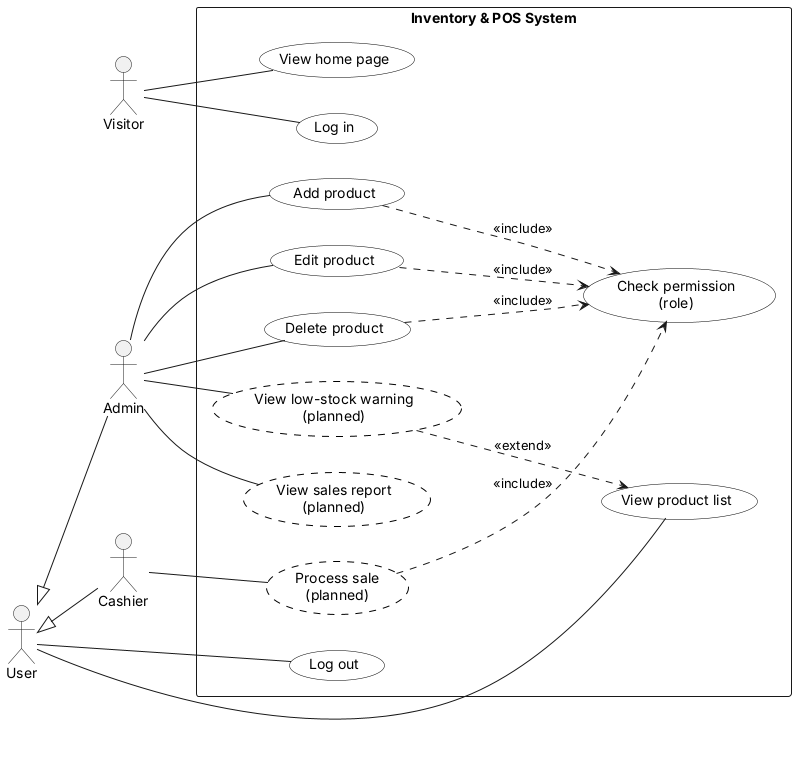
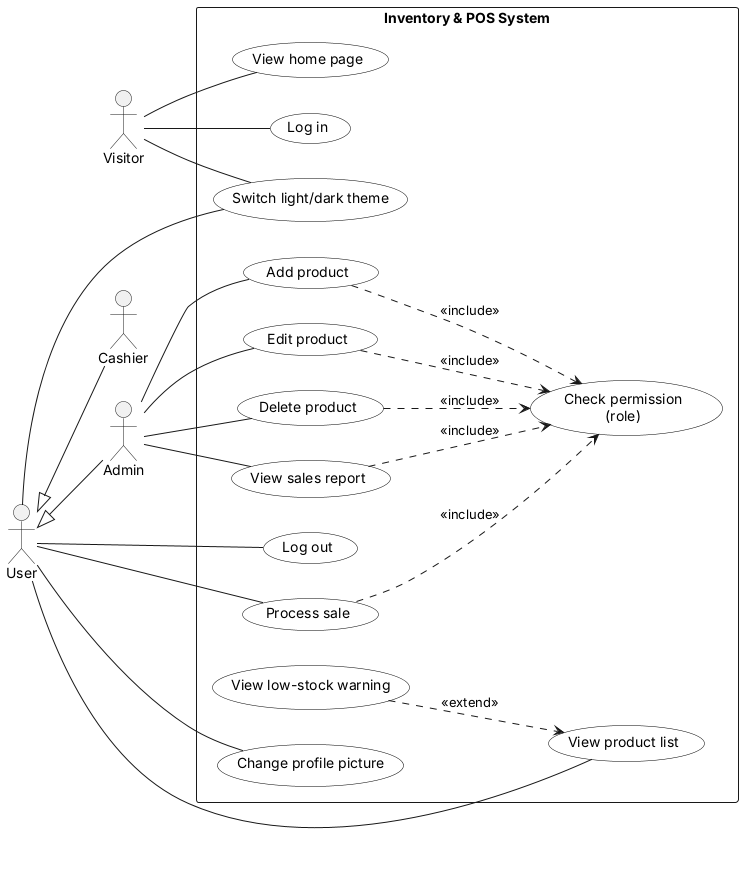
Docs: v0.12.0 profile picture and v0.13.0 modern theme
Stories F10-F11, test cases TC-11.x and TC-12.x (107 cases), DEF-25 and
DEF-26, use cases UC-11 and UC-12, updated use case diagram, actors table
and known limitations; removed a leftover duplicate UC-10 fragment.

Claude-Session: https://claude.ai/code/session_01AnRZgfVLrJe4aroni2zZdi

diff --git a/project_documentation_draft.md b/project_documentation_draft.md
@@ -1,7 +1,7 @@
 # Inventory & POS System — Project Documentation Draft
 
 > **Living document.** Add to it after every iteration (version tag). Don't wait until the end.
-> This draft covers the system up to **v0.11.2** (2026-10-09). Versions v0.8.2–v0.11.2 were implemented and tested by Claude on request
+> This draft covers the system up to **v0.13.0** (2026-10-09). Versions v0.8.2–v0.13.0 were implemented and tested by Claude on request
 > (time constraint: finals), following the same branch → pull request → merge → tag workflow and the stabilization rule.
 > Rebuilt on 2026-10-03 from the Git history and the source code, and tested against v0.7.0.
 >
@@ -83,6 +83,8 @@ Specification, development and validation are *interleaved* (they overlap) inste
 | v0.10.1–v0.10.2 | Stabilization patches: renamed products, keep sold products | Yes |
 | v0.11.0 | Demo data seed script | Yes: realistic shop for the presentation |
 | v0.11.1–v0.11.2 | Stabilization patches: receipt order, ₱ thousands separators | Yes |
+| v0.12.0 | Profile picture: round avatar with initials, upload/change/remove; automatic database upgrade | Yes |
+| v0.13.0 | Modern theme: left sidebar, light/dark switch, dashboard home | Yes: same features, new look |
 | v1.0.0 → | Presentation release (planned) | — |
 
 **Why incremental, and not the other two?**
@@ -140,6 +142,9 @@ The tag message summarizes what the increment added.
 | v0.11.0 | 2026-10-09 | `9c0bbac` | Demo data: seed script with shop products and a week of sales *(pull request #15)* |
 | v0.11.1 | 2026-10-09 | `e02353c` | Demo data: receipt numbers follow the clock *(pull request #16)* |
 | v0.11.2 | 2026-10-09 | `16c6c7a` | Money shown with thousands separators (₱6,904.50) *(pull request #17)* |
+| — | 2026-10-09 | — | Documentation update for v0.8.2–v0.11.2 *(pull request #18, no tag)* |
+| v0.12.0 | 2026-10-09 | `5f3648e` | Profile pictures: round avatar (initials until a picture is uploaded), avatar menu, automatic database upgrade *(pull request #19)* |
+| v0.13.0 | 2026-10-09 | `ea368ff` | Modern theme: left sidebar with icons, light "Clean counter" / dark "Night shift" switch, dashboard home, card layout *(pull request #20)* |
 
 *From v0.8.2 the Commit column shows the commit with the change; the tag sits on the GitHub merge commit of that pull request.
 Pull request numbers assume the versions were published in order in one session.*
@@ -160,8 +165,8 @@ An **actor** is anyone (or anything) outside the system that interacts with it.
 |---|---|---|
 | **Visitor** | Anyone who opens the website but has not logged in | See the home page; go to the login page |
 | **User** *(general)* | Any logged-in person. This is a "parent" actor: Admin and Cashier are both kinds of User | Log in, log out, view the product list |
-| **Admin** | Store owner or manager. *Is a* User | Everything a User can do, **plus** add, edit and delete products |
-| **Cashier** | Counter staff. *Is a* User | Everything a User can do (view only). Will process sales in v0.8.0 |
+| **Admin** | Store owner or manager. *Is a* User | Everything a User can do, **plus** add, edit and delete products and view the sales report |
+| **Cashier** | Counter staff. *Is a* User | Everything a User can do: view products, process sales, change their picture (cannot change products or see the sales report) |
 
 > **Why "User" as a parent?** Admin and Cashier share some abilities (log in, log out, view products).
 > Instead of drawing the same lines twice, UML lets you draw them once on a general *User* actor and
@@ -246,6 +251,23 @@ a link to its receipt. To compare the week, she picks From = last Friday and To 
 She renamed "Cola" to "Cola 1.5L" on Wednesday; the report still counts it as one product *(v0.10.1)*. When she
 tries to delete a product that has been sold, the system refuses and suggests setting its quantity to 0, so old
 reports and receipts stay correct *(v0.10.2)*.
+
+### Story F10 — Profile picture *(v0.12.0)*
+Juan, a cashier, logs in for the first time. At the bottom of the sidebar he sees a green circle with his initials,
+**JU**, next to his name and role. He clicks it; a small menu says *Signed in as Cashier* and offers **Change picture**
+and **Log out**. He chooses Change picture, picks a JPG photo from his phone gallery (under 2 MB) and clicks
+**Upload picture**. The circle now shows his photo, cropped to a circle, on every page. A week later he uploads a
+new photo; the old file is deleted from the server. When he tries a GIF, the system says it only accepts PNG,
+JPG or WebP. When he uploads a 5 MB photo, it says *"That picture is too big. The limit is 2 MB."* and nothing
+breaks. Clicking **Remove picture** brings back his initials.
+
+### Story F11 — Modern theme with light and dark mode *(v0.13.0)*
+Maria opens the system in the morning. A sidebar on the left lists **Home, Products, New Sale** and, because she
+is the admin, **Sales Report**; the page she is on is highlighted. Home shows today's numbers (products, low
+stock, sales today, revenue today) and shortcut tiles. In the evening the store lights are dim, so she clicks
+**Dark mode** at the bottom of the sidebar: the system turns charcoal with amber highlights. Tomorrow it opens in
+dark mode again because her browser remembers the choice. When she prints a receipt from dark mode, the
+printout is still black on white. On her phone, the sidebar hides behind a ☰ menu button at the top.
 
 ---
 
@@ -465,12 +487,42 @@ reports and receipts stay correct *(v0.10.2)*.
 | TC-10.3 | Sales report for the demo week | Receipt numbers increase with time | **v0.11.0:** #25 at 9:27 AM after #23 at 6:13 PM · **v0.11.1:** in time order | ❌→✅ DEF-22 |
 | TC-10.4 | Any amount ≥ ₱1,000 (report, receipt, products, change preview, messages) | Thousands separator | **v0.11.1:** ₱6904.50 · **v0.11.2:** ₱6,904.50 | ❌→✅ DEF-23 |
 
+### F10 — Profile picture *(v0.12.0)*
+
+| ID | Precondition | Steps / input | Expected result | Actual result | Pass? |
+|---|---|---|---|---|---|
+| TC-11.1 | User without a picture | Open any page | Circle with initials (admin → AD) and the avatar menu | As expected | ✅ |
+| TC-11.2 | Logged in | Upload a PNG | Circle shows the picture; file saved under a random name | `user1_<random>.png` saved and shown | ✅ |
+| TC-11.3 | Picture already set | Upload a JPG | New picture shown; old file deleted | As expected | ✅ |
+| TC-11.4 | Picture set | Click Remove picture | Initials again; file deleted | As expected | ✅ |
+| TC-11.5 | Logged in | Upload a text file renamed to `.png` | Refused: "isn't a PNG, JPG or WebP picture" | Refused (the file's first bytes are checked, not its name) | ✅ |
+| TC-11.6 | Logged in | Upload a GIF | Refused with the same message | Refused | ✅ |
+| TC-11.7 | Logged in | Upload a 3 MB file | "That picture is too big. The limit is 2 MB."; no crash | As expected | ✅ |
+| TC-11.8 | Database from v0.11.2 (no `avatar` column) | Start the app | Column added automatically; old sales still work | Added by `upgrade_database()`; cash sale OK | ✅ |
+| TC-11.9 | Picture file deleted from the server by hand | Open any page | Initials instead of a broken image | As expected | ✅ |
+| TC-11.10 | Logged in | Open `/profile/remove` in the address bar (GET) | 405, picture kept | 405 | ✅ |
+| TC-11.11 | Visitor | Open `/profile` | Login page | As expected | ✅ |
+
+### F11 — Modern theme *(v0.13.0)*
+
+| ID | Precondition | Steps / input | Expected result | Actual result | Pass? |
+|---|---|---|---|---|---|
+| TC-12.1 | Admin | Open Products, then Add Product | Sidebar highlights **Products** on both pages | As expected | ✅ |
+| TC-12.2 | Cashier | Look at the sidebar | No Sales Report link | As expected | ✅ |
+| TC-12.3 | Any page | Click **Dark mode**, then reload | Dark theme with amber accent; still dark after reload | As expected | ✅ |
+| TC-12.4 | Dark mode | Print a receipt | Printout in light colours, no sidebar; dark again after printing | As expected | ✅ |
+| TC-12.5 | Window 390 px wide (phone) | Open Home, tap ☰ | Top bar with menu button; sidebar slides in | As expected | ✅ |
+| TC-12.6 | Font server slow or unreachable | New Sale: type the cash received | Change preview updates | **v0.13.0 draft:** stuck at ₱0.00 · **released v0.13.0:** updates | ❌→✅ DEF-25 |
+| TC-12.7 | Demo data | Admin opens Home | Products 15, Low stock 4, today's sales and revenue match the report for today | As expected | ✅ |
+| TC-12.8 | Visitor | Open `/products` | Login page with a styled "Please log in" message | **v0.11.2:** message shown as plain text · **v0.13.0:** blue info box | ❌→✅ DEF-26 |
+| TC-12.9 | All earlier tests | Run the full regression suite | Everything still passes | All 10 suites + 17 avatar checks pass | ✅ |
+
 > **How these were run (F8–F10, patches):** on 2026-10-09 by Claude, using the Flask test client, a threaded server
 > for TC-7.26, and a real browser (Chromium with Bootstrap) for the screen checks (TC-8.8, TC-10.3, TC-10.4) and the
 > change preview. Every version was also re-run against **all earlier tests** (regression). Hand checks and
 > screenshots by Yesha are still to do for the report.
 
-### Test summary (v0.7.0 → v0.11.2)
+### Test summary (v0.7.0 → v0.13.0)
 
 | Feature | Cases | ✅ Pass | ❌ Fail | ⚠/⏳ Other |
 |---|---|---|---|---|
@@ -485,7 +537,9 @@ reports and receipts stay correct *(v0.10.2)*.
 | F8 Low-stock | 9 | 7 → **9** | 2 → **0** | 0 |
 | F9 Sales report | 10 | 8 → **10** | 2 → **0** | 0 |
 | Demo data | 4 | 2 → **4** | 2 → **0** | 0 |
-| **Total** | **87** | **62 → 85** | **22 → 0** | **3 → 2** |
+| F10 Profile picture | 11 | 11 | 0 | 0 |
+| F11 Modern theme | 9 | 7 → **9** | 2 → **0** | 0 |
+| **Total** | **107** | **80 → 105** | **24 → 0** | **3 → 2** |
 
 *F1–F6: numbers shown as v0.7.0 → v0.7.1; on 2026-10-04 the full suite was re-run against the merged v0.7.1 code (`6043cdb`): all five failures now pass, and every test that passed before still passes. Checking that old features still work after a change is called **regression testing**. F7: numbers shown as first run → v0.8.1; on 2026-10-08 the F1–F6 suite was re-run against v0.8.0 and still passes.*
 
@@ -523,6 +577,8 @@ reports and receipts stay correct *(v0.10.2)*.
 | DEF-22 | Low | Demo data: receipt numbers not in time order | v0.11.x stabilization (TC-10.3) | Sort each day's sale times before creating them | ✅ Fixed v0.11.1 |
 | DEF-23 | Low | Amounts ≥ ₱1,000 shown without thousands separator | v0.11.x stabilization (TC-10.4) | `peso` template filter used everywhere | ✅ Fixed v0.11.2 |
 | DEF-24 | Medium | Sales report with end date 9999-12-31 crashed (no next day exists) | Pre-release testing of v0.10.0 (TC-9.5) | Dates limited to 2000–2100 | ✅ Fixed before v0.10.0 release |
+| DEF-25 | Medium | With the web font loading normally, a slow or blocked font server held up the New Sale script, so the change preview stayed at ₱0.00 (browsers wait for stylesheets before running scripts) | Pre-release testing of v0.13.0 (TC-12.6) | Font stylesheet loads in the background (`media="print"` switched to `all` when loaded) | ✅ Fixed before v0.13.0 release |
+| DEF-26 | Low | "Please log in to access this page." (from Flask-Login) shown as unstyled text, because its category `message` has no Bootstrap colour | v0.13.0 restyle (TC-12.8) | Category `message` shown as `info` | ✅ Fixed v0.13.0 |
 
 > **How the v0.7.1 fix works.** All checks live in one function, `validate_product_form()` in `app.py`, used by
 > both Add and Edit (the **DRY** principle: Don't Repeat Yourself). It returns either clean data or an error
@@ -533,7 +589,9 @@ reports and receipts stay correct *(v0.10.2)*.
 > column) needs a **migration**: a small, deliberate script run once, after a backup. Real projects use a migration
 > tool (e.g. Flask-Migrate) to keep these in order.
 
-> **Known limitations after v0.11.2** (future increments):
+> **Known limitations after v0.13.0** (future increments):
+> - **Styling comes from the internet** (Bootstrap, icons and font from CDNs, i.e. content delivery networks). Without internet the system still works but looks unstyled. Fix: save those files in `static/` so it runs fully offline.
+> - **The light/dark choice is saved per browser**, not per user account.
 > - **Cash only.** GCash/card would need a payment-method choice, recorded but not connected to GCash itself, which needs a merchant account.
 > - **No refunds or voids.** To be handled by a *void with admin approval* flow (Completed → Void requested → Voided / Rejected), which also gives the state diagram.
 > - **Editing a product's stock overwrites it with the number typed in.** If a sale happens while the edit form is open, that sale's deduction is overwritten. Fix: "restock by amount" plus a **stock ledger** (a record of every stock change).
@@ -567,9 +625,11 @@ then a tabular description of each, in the format of Sommerville's Lecture 5 p. 
 | UC-08 | Process sale | Cashier and Admin | Built (v0.8.0, fixed v0.8.1) |
 | UC-09 | View low-stock warning | Admin and Cashier | Built (v0.9.0, fixed v0.9.1–v0.9.2) |
 | UC-10 | View sales report | Admin | Built (v0.10.0, fixed v0.10.1–v0.10.2) |
+| UC-11 | Change profile picture | User (Admin and Cashier) | Built (v0.12.0) |
+| UC-12 | Switch light/dark theme | Visitor and User | Built (v0.13.0) |
 
 **Relationships between use cases** (needed for the diagram):
-- UC-05, UC-06, UC-07 and UC-08 all **«include»** a hidden step, *Check permission (role)*. «include» means
+- UC-05, UC-06, UC-07, UC-08 and UC-10 all **«include»** a hidden step, *Check permission (role)*. «include» means
   "always happens as part of". The `@admin_required` decorator in `app.py` is exactly this.
 - UC-09 **«extend»s** UC-04: the low-stock warning appears on the product list *only when* some stock is low.
   «extend» means "sometimes adds extra behaviour, under a condition".
@@ -675,13 +735,27 @@ then a tabular description of each, in the format of Sommerville's Lecture 5 p. 
 | **Response** | Revenue, number of sales, items sold, top 5 products by units (grouped per product), and every sale with a link to its receipt |
 | **Comments** | Includes *Check permission* (admin only, 403 for cashiers). Depends on UC-08. Uses the price snapshot in each SaleItem, so later price changes don't alter past revenue |
 
----|---|
-| **Actors** | Admin |
-| **Description** | Summarizes sales over a chosen period |
-| **Data** | Sale records; start and end dates |
-| **Stimulus** | The admin opens Sales Report and chooses a date range |
-| **Response** | A list of sales with the items sold and total revenue |
-| **Comments** | Depends on UC-08 existing first |
+**UC-11 Change profile picture** *(built v0.12.0)*
+
+| | |
+|---|---|
+| **Actors** | Admin, Cashier |
+| **Description** | Lets a user replace the initials circle with a round photo, or remove it |
+| **Data** | An image file (PNG, JPG or WebP, at most 2 MB); stored in `static/avatars/` under a random name; the file name is saved in the user's `avatar` column |
+| **Stimulus** | The user clicks their avatar in the sidebar and chooses Change picture |
+| **Response** | The new picture appears on every page; the previous file is deleted. Wrong type or size gives a message instead |
+| **Comments** | The file's content (first bytes) is checked, not just its name. Random file names stop users from overwriting each other's pictures |
+
+**UC-12 Switch light/dark theme** *(built v0.13.0)*
+
+| | |
+|---|---|
+| **Actors** | Visitor, Admin, Cashier |
+| **Description** | Switches the look between "Clean counter" (light, teal) and "Night shift" (dark, amber) |
+| **Data** | The choice, saved in the browser's `localStorage` |
+| **Stimulus** | Clicking Dark mode / Light mode in the sidebar (or the moon/sun button on the login page) |
+| **Response** | Every page changes colour at once; the choice is kept after reloading. Printing always uses light |
+| **Comments** | Runs entirely in the browser; the server and database are not involved |
 
 ---
 
@@ -780,7 +854,7 @@ Status key: ✅ drafted here · 🟡 partly · ⬜ not started
 | # | Item | Status |
 |---|---|---|
 | 1 | Process model and why (L2) | ✅ §2 |
-| 2 | Full story of each feature (L3 p. 21) | ✅ §5 (F7–F9 to finish after building) |
+| 2 | Full story of each feature (L3 p. 21) | ✅ §5 (F1–F11) |
 | 3 | Detailed test case of each feature (L3 p. 31) | ✅ §6 for F1–F6 |
 | 4 | Requirements definition: user and system requirements (L4 p. 7) | ⬜ |
 | 5 | Nonfunctional requirements (L4 p. 18) | ⬜ |
@@ -812,7 +886,7 @@ Status key: ✅ drafted here · 🟡 partly · ⬜ not started
 | 31 | Reliability terminology (L11 p. 25) | ⬜ |
 | 32 | Safety terminology (L11 p. 35) | ⬜ |
 | 33 | Security terminology (L11 p. 42) | ⬜ (use DEF-07, DEF-08, password hashing) |
-| 34 | Vulnerability avoidance techniques (L11 p. 45) | 🟡 server-side validation, hashing, POST-only delete, 403 checks already exist |
+| 34 | Vulnerability avoidance techniques (L11 p. 45) | 🟡 server-side validation, hashing, POST-only delete, 403 checks, upload checks (file content, 2 MB limit, random names) already exist |
 | 35 | Risk classification table (L12 p. 15) | ⬜ |
 | 36 | Software fault tree (L12 p. 18) | ⬜ |
 | 37 | Safety requirements (L12 p. 23) | ⬜ |
